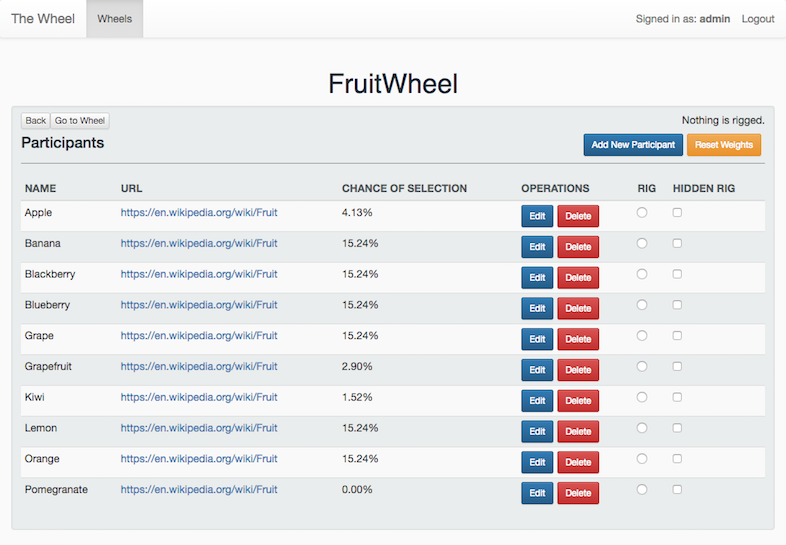
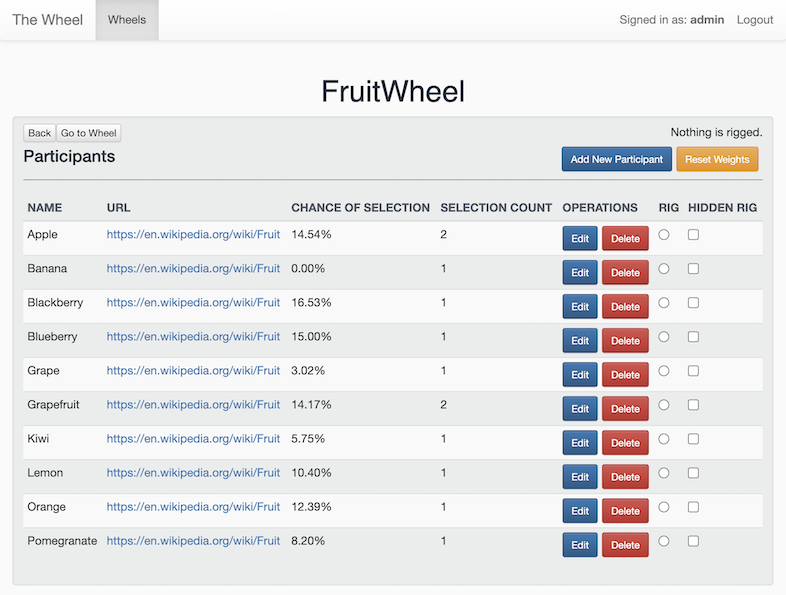
Track how many times a participant has actually been selected

diff --git a/ui/src/components/participant_table/participant_table.jsx b/ui/src/components/participant_table/participant_table.jsx
@@ -263,7 +263,10 @@ export class ParticipantTable extends Component<ParticipantTableProps, Participa
     return (
       <div className='pageRoot'>
         <ConfirmationModal isModalOpen={resetModalOpen}
-                           message={'Are you sure you want to reset this wheel\'s weights? This action can\'t be undone.'}
+                           message={
+                            'Are you sure you want to reset this wheel\'s weights and selection count? ' +
+                            'This action can\'t be undone.'
+                           }
                            onConfirm={this.handleResetWheel}
                            closeModal={this.toggleResetModal}/>
         <h1 className='title'>
@@ -309,6 +312,7 @@ export class ParticipantTable extends Component<ParticipantTableProps, Participa
                   <th>Name</th>
                   <th>URL</th>
                   <th>Chance of Selection</th>
+                  <th>Selection Count</th>
                   <th>Operations</th>
                   <th>Rig</th>
                   <th>Hidden Rig</th>

diff --git a/ui/src/components/participant_table/participant_row.jsx b/ui/src/components/participant_table/participant_row.jsx
@@ -81,6 +81,9 @@ export default class ParticipantRow extends Component<ParticipantRowProps> {
           {(participant.weight / totalParticipantWeight * 100).toFixed(2)}%
         </td>
         <td>
+          {participant.selection_count || 0}
+        </td>
+        <td>
           <ParticipantModal isOpen={participationModalOpen}
                                  onSubmit={this.handleUpdateParticipant}
                                  onClose={this.toggleParticipationModal}

diff --git a/ui/src/types.jsx b/ui/src/types.jsx
@@ -32,4 +32,5 @@ export type ParticipantType = {
   wheel_id: string;
   created_at?: string;
   updated_at?: string;
+  selection_count?: number;
 }

diff --git a/api/test_choice_algorithm.py b/api/test_choice_algorithm.py
@@ -64,16 +64,26 @@ def test_suggest_participant_no_participants(mock_dynamodb):
 
 
 def test_select_participant(mock_dynamodb, setup_data, mock_participant_table):
+    def get_participants(participant_to_select):
+        participants = mock_participant_table.query(
+            KeyConditionExpression=Key('wheel_id').eq(setup_data['wheel']['id']))['Items']
+        selected_participant = [participant for participant in participants
+                                if participant['id'] == participant_to_select['id']][0]
+        return participants, selected_participant
+    
     participant_to_select = setup_data['participants'][0]
     choice_algorithm.select_participant(setup_data['wheel'], participant_to_select)
 
-    participants = mock_participant_table.query(
-        KeyConditionExpression=Key('wheel_id').eq(setup_data['wheel']['id']))['Items']
-    selected_participant = [participant for participant in participants
-                            if participant['id'] == participant_to_select['id']][0]
-
+    participants, selected_participant = get_participants(participant_to_select)
     assert selected_participant['weight'] == 0
+    assert selected_participant['selection_count'] == 1
     assert abs(sum([participant['weight'] for participant in participants]) - len(participants)) < epsilon
+
+    # Select the same participant again to ensure selection_count was incremented
+
+    choice_algorithm.select_participant(setup_data['wheel'], participant_to_select)
+    _, selected_participant = get_participants(participant_to_select)
+    assert selected_participant['selection_count'] == 2
 
 
 def test_selection_cycle(mock_dynamodb, setup_data, mock_participant_table):
@@ -110,9 +120,11 @@ def test_selection_cycle(mock_dynamodb, setup_data, mock_participant_table):
 
         chosen_now = get_participant_with_id(participants, chosen_id)
         chosen_now_weight = chosen_now['weight']
+        chosen_now_selection_count = chosen_now['selection_count']
 
         assert chosen_was_weight > 0.0
         assert chosen_now_weight == 0
+        assert chosen_now_selection_count == distro[chosen_now['name']]
         total_weight_of_chosens += chosen_was_weight
 
         total_weight = sum([participant['weight'] for participant in participants])
@@ -141,9 +153,13 @@ def test_reset_wheel(mock_dynamodb, setup_data, mock_participant_table):
     updated_participants = mock_participant_table.query(
         KeyConditionExpression=Key('wheel_id').eq(setup_data['wheel']['id']))['Items']
     participant_weights = [participant['weight'] for participant in updated_participants]
+    participant_selection_counts = [participant['selection_count'] for participant in updated_participants]
 
     for weight in participant_weights:
         assert weight == 1
+
+    for selection_count in participant_selection_counts:
+        assert selection_count == 0
 
 
 def test_rebalance_wheel(setup_data, mock_participant_table):

diff --git a/api/choice_algorithm.py b/api/choice_algorithm.py
@@ -86,6 +86,7 @@ def select_participant(wheel, participant):
             for p in WheelParticipant.iter_query(KeyConditionExpression=Key('wheel_id').eq(wheel['id'])):
                 if p['id'] == participant['id']:
                     p['weight'] = 0
+                    p['selection_count'] = p.get('selection_count', 0) + 1
                 else:
                     p['weight'] += Decimal(weight_share)
                     p['weight'] *= factor
@@ -110,6 +111,7 @@ def reset_wheel(wheel):
     with WheelParticipant.batch_writer() as batch:
         for p in WheelParticipant.iter_query(KeyConditionExpression=Key('wheel_id').eq(wheel['id'])):
             p['weight'] = get_sub_wheel_size(p['name'])
+            p['selection_count'] = 0
             batch.put_item(Item=p)
             count += 1
     Wheel.update_item(Key={'id': wheel['id']}, **to_update_kwargs({'participant_count': count}))
